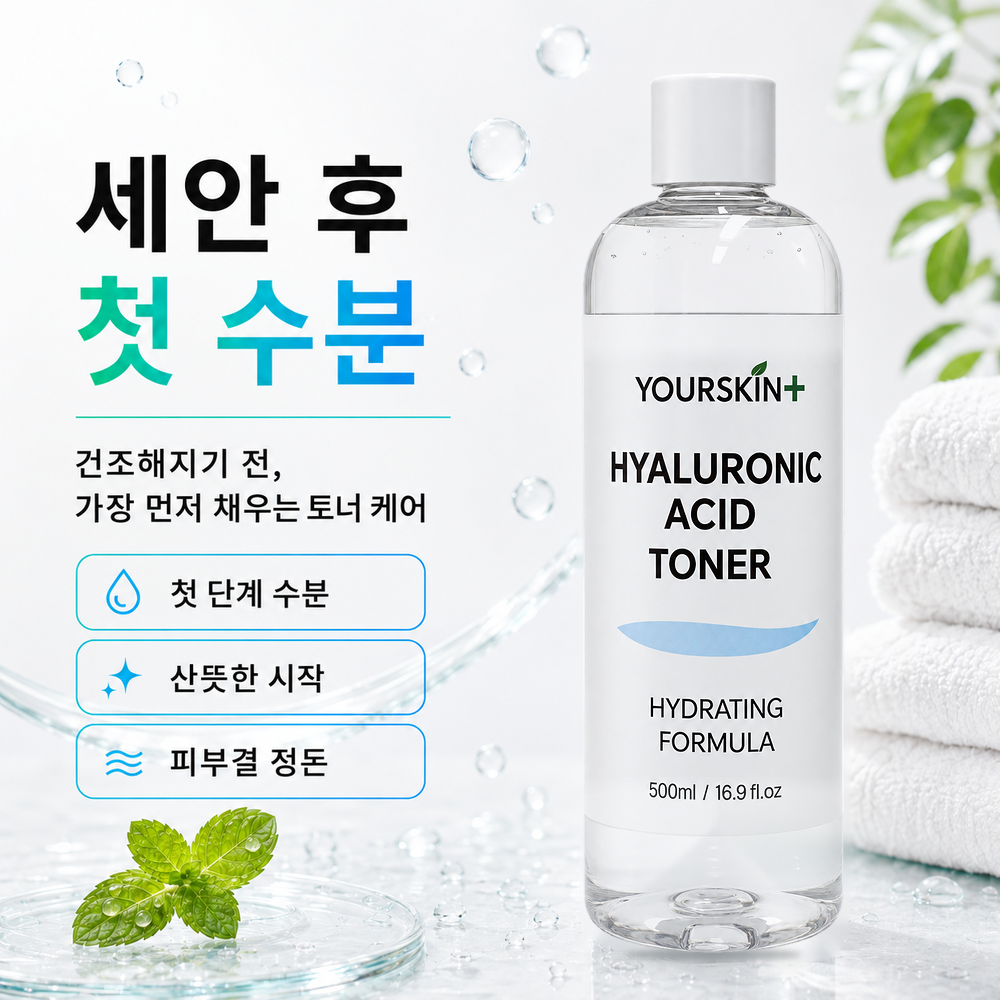
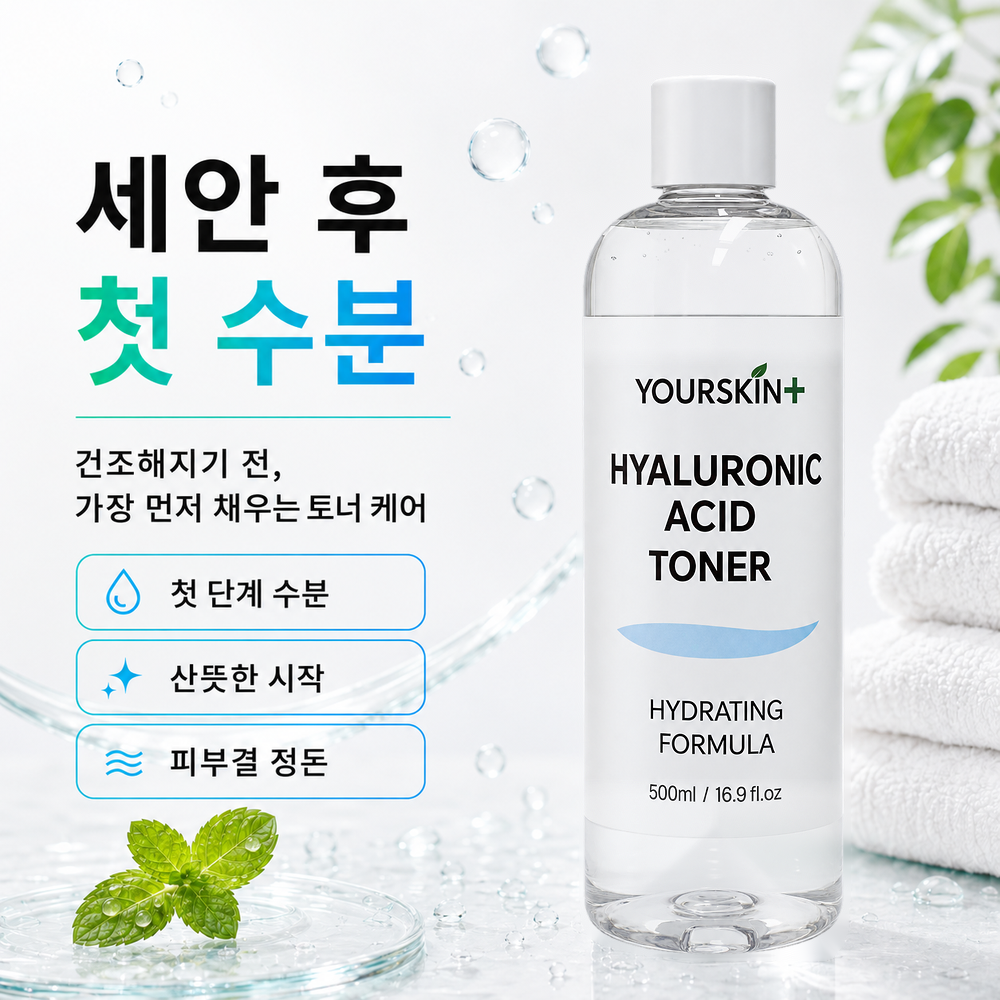
Mark no-shadow toner images live

diff --git a/src/data/marketingOps.ts b/src/data/marketingOps.ts
@@ -21,7 +21,7 @@ export const productOpsStatuses: ProductOpsStatus[] = [
     slug: 'hyaluronic-toner',
     priority: 'focus',
     campaignRole: '수분 루틴 진입 상품',
-    detailStatus: 'V5 동일 true-alpha 제품·접지 보정 대표 6장 + 기존 상세 14컷 쿠팡 현재 적용',
+    detailStatus: 'V5 동일 true-alpha 제품·넓은 그림자 제거 대표 6장 + 기존 상세 14컷 쿠팡 현재 적용',
     assetStatus: 'V5 사이트/쿠팡 승인완료 · CDN 픽셀 검증 6/6',
     claimRisk: 'medium',
     nextAction: '구매자 PDP 캐시와 썸네일 노출 상태 확인',
@@ -216,7 +216,7 @@ export const productVersions: Record<string, ProductVersion[]> = {
       label: 'V5 · 동일 투명 제품 6장',
       status: 'live',
       date: '2026-08-26',
-      summary: '쿠팡 승인완료 V5입니다. 동일 true-alpha 제품의 외곽 흰 matte를 제거하고 투명 PET의 배경 투과와 접지를 보정한 대표 6장을 적용했습니다. 새 Coupang CDN 6장이 로컬 V5와 decoded RGB 픽셀 단위로 일치하며 기존 상세 14컷은 경로와 순서를 그대로 보존했습니다.',
+      summary: '쿠팡 승인완료 V5입니다. 동일 true-alpha 제품의 외곽 흰 matte를 제거하고 투명 PET의 배경 투과를 보정했습니다. 넓은 타원 그림자를 없애고 제품을 2px 낮춘 뒤 바닥에 붙은 미세 접촉만 유지한 대표 6장을 적용했습니다. 새 Coupang CDN 6장이 로컬 V5와 decoded RGB 픽셀 단위로 일치하며 기존 상세 14컷은 경로와 순서를 그대로 보존했습니다.',
       mainImages: Array.from({ length: 6 }, (_, i) => '/coupang/images/hyaluronic-acid-toner/versions/v5/representative/' + String(i + 1).padStart(2, '0') + '.png'),
       detailImages: [
         ...Array.from({ length: 5 }, (_, i) => '/coupang/images/hyaluronic-acid-toner/versions/v2/detail/' + String(i + 1).padStart(2, '0') + '.png'),
